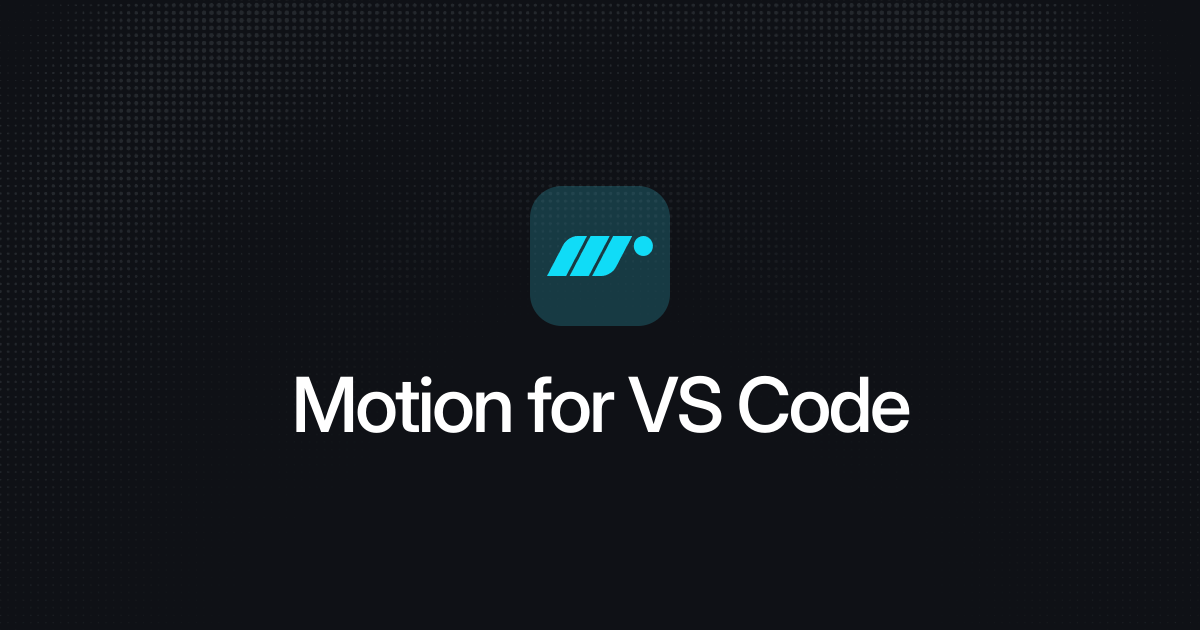
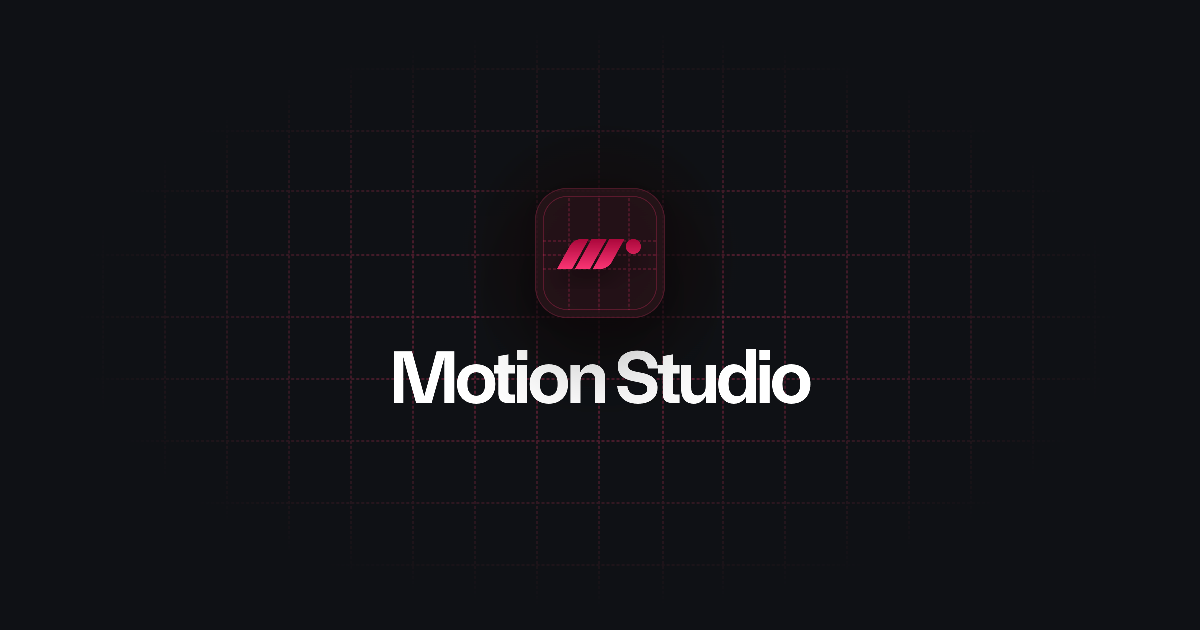
Updating readme

diff --git a/README.md b/README.md
@@ -1,56 +1,49 @@
 <h1 align="center">
-  <img src="images/readme-header.png" alt="Motion for VS Code" />
+  <img src="images/readme-header.png" alt="Motion Studio" />
 </h1>
 
-Supercharge your animation development process with Motion for VS Code.
+Streamline your animation development process with Motion Studio. Edit CSS and Motion code directly in-editor with Motion Studio's visual and AI editing tools.
 
--   **Copilot docs:** Turn Copilot into a Motion expert with the latest docs.
--   **Copilot CSS generation:** Enhance Copilot's CSS generation with real Motion springs.
+-   **Documentation**: Update your LLM with the latest Motion docs.
+-   **Curve visualisation**: Enable your LLM to visually understand spring and easing functions.
 
-Additionally, [Motion+](https://motion.dev/plus) users gain access to:
+[Motion+](https://motion.dev/plus) members also gain access to:
 
--   **Bezier curve editor**: Edit and preview CSS and Motion easing curves.
--   More features coming soon
+-   **Bezier curve editor**: Real-time editing and preview of Motion and CSS bezier curves.
+-   **CSS springs**: Generate CSS springs - no animation library needed.
+-   **Custom ruleset**: Turn your LLM into a Motion expert.
 
 ![Bezier curve editing](images/bezier-editing.gif)
 
-<!---
--   **AI+ docs:** Latest docs for Motion+ features like `Cursor` and `Ticker`
--   **Curve visualisation:** Lets Copilot visually see springs and easing curves
--   **Spring editor:** Edit Motion springs inline, in real-time
--->
-
 ## Install
 
-Install via the [VS Code Marketplace](https://marketplace.visualstudio.com/items?itemName=Motion.motion-vscode-extension)
+Get started with the [docs](https://motion.dev/docs/tools-vs-code-extension).
 
 ### Enable Motion+ features
 
-Generate a [personal access token](https://plus.motion.dev/profile), then click "Authenticate" in the Motion panel to open an input dialog for your token.
+Generate a [personal access token](https://plus.motion.dev), then click "Authenticate" in the Motion panel to open an input dialog for your token.
 
 ![Screenshot of the unauthenticated Motion panel](images/auth.png)
 
 ## Features
 
-### Copilot docs
+### Documentation
 
-Load the latest Motion documentation directly into Copilot. Add docs to a chat by clicking on "Add Context":
+LLMs are trained on data that is often out of date, leading to incorrect answers or inaccurate code. Motion Studio provides the latest documentation to your LLM so it's always up to speed.
 
 ![Screenshot of the Copilot chat window](images/readme-add-context.png)
 
-Navigating to "MCP Resources..."
-
-![Screenshot of the resources list](images/readme-add-context-2.png)
-
-Search for the docs you're looking for:
-
-![Screenshot of the search box](images/readme-add-context-3.png)
-
 [Learn more about Copilot docs](https://motion.dev/docs/ai-llm-documentation)
 
-### CSS generation
+### Bezier curve editing
 
-With Motion for Visual Studio Code , Copilot gains the ability to generate CSS `linear()` easing curves to create springs or other custom easing curves.
+Motion Studio enables real-time editing and preview of bezier curves, without having to leave your editor.
+
+![Bezier curve editing](images/bezier-editing.gif)
+
+### CSS springs
+
+Motion Studio gives your AI editor the ability to generate CSS linear() easing curves to create springs or other custom easing curves, using real Motion code.
 
 > Generate a CSS spring that's quite bouncy
 
@@ -60,30 +53,21 @@ With Motion for Visual Studio Code , Copilot gains the ability to generate CSS `
 
 [Learn more about CSS generation](https://motion.dev/docs/ai-generate-css-springs-and-easings-llm)
 
-### Bezier curve editing
+### Visualise springs and easing curves
 
-When editing a CSS or Motion bezier easing curve while the Motion panel's open, a bezier curve editor will appear. Changes will be immediately reflected in your code.
+Motion Studio enables your LLM to visualise springs and easing curves. Just select a spring or easing definition in your code and ask your LLM to "visualise" it - or prompt it to "visualise a stiff spring" or "visualise the CSS ease-out curve".
 
-![Bezier curve editing](images/bezier-editing.gif)
+[Learn more about visualisation](https://motion.dev/docs/ai-visualise-curves-llm)
 
-<!--
+### Rules
 
-## Extension Settings
+Turn your LLM into an animation expert with the Motion+ LLM rules.
 
-Include if your extension adds any VS Code settings through the `contributes.configuration` extension point.
+-   Best practices for when and how to add will-change.
+-   Coding styles to improve per-frame performance.
+-   When to animate transform vs independent transforms.
 
-For example:
-
-This extension contributes the following settings:
-
--   `myExtension.enable`: Enable/disable this extension.
--   `myExtension.thing`: Set to `blah` to do something.
-
-## Motion+ authentication
-
-To enable Motion+
-
--->
+[Learn more about rules](https://motion.dev/docs/ai-llm-rules)
 
 ## Issues & feature requests
 
